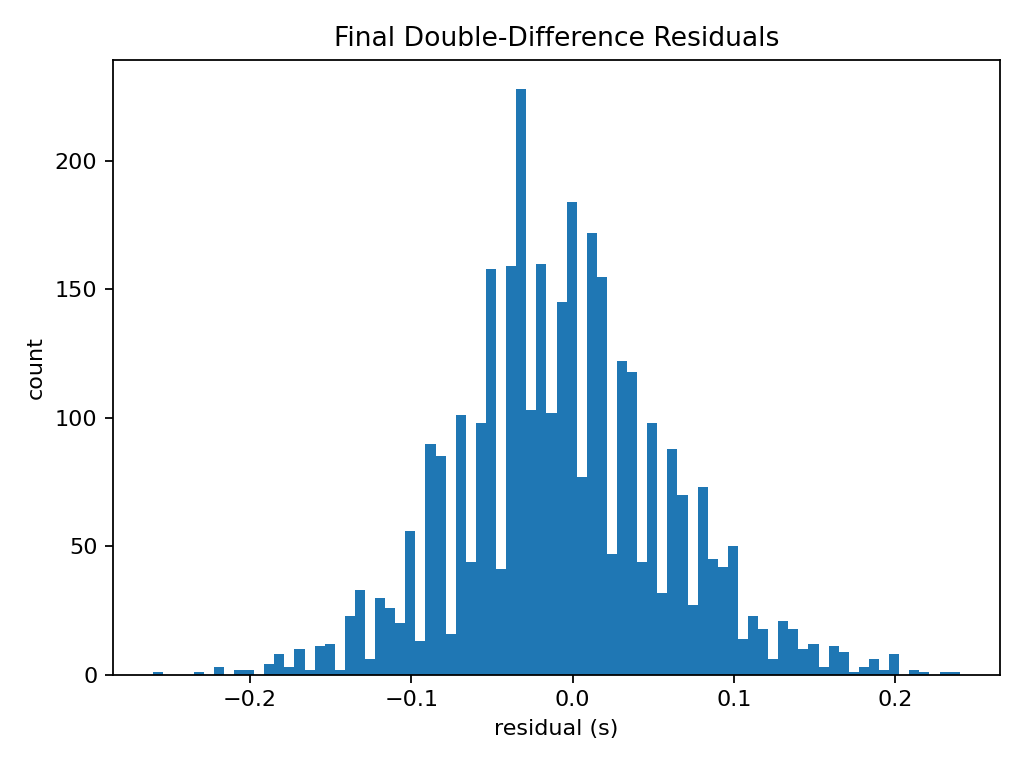
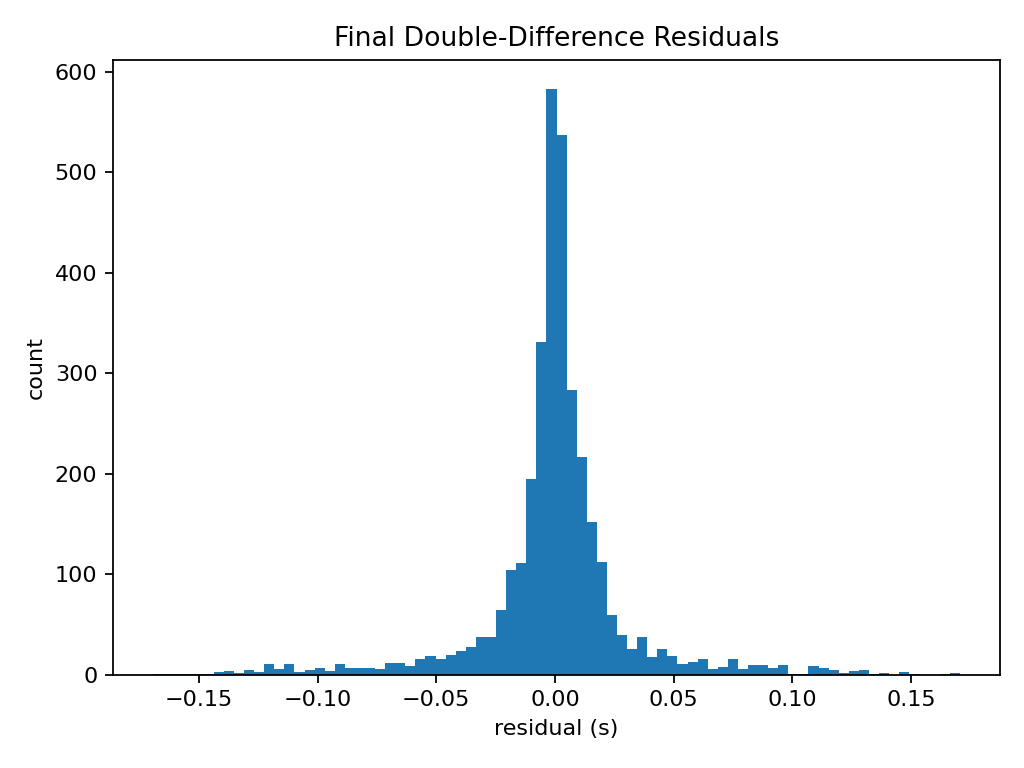
get time residuals fix

diff --git a/hypodd_quality_report.py b/hypodd_quality_report.py
@@ -82,12 +82,111 @@ def _summary(values):
     }
 
 
+def _residual_summary(prefix, residuals):
+    values = [row["residual_s"] for row in residuals]
+    abs_values = [abs(value) for value in values]
+    if not values:
+        return {
+            "%s_count" % prefix: 0,
+            "%s_mean_abs_s" % prefix: math.nan,
+            "%s_median_abs_s" % prefix: math.nan,
+            "%s_rms_s" % prefix: math.nan,
+            "%s_mean_s" % prefix: math.nan,
+            "%s_p05_abs_s" % prefix: math.nan,
+            "%s_p95_abs_s" % prefix: math.nan,
+        }
+    sorted_abs = sorted(abs_values)
+    return {
+        "%s_count" % prefix: len(values),
+        "%s_mean_abs_s" % prefix: sum(abs_values) / len(abs_values),
+        "%s_median_abs_s" % prefix: _percentile(sorted_abs, 50),
+        "%s_rms_s" % prefix: math.sqrt(
+            sum(value * value for value in values) / len(values)
+        ),
+        "%s_mean_s" % prefix: sum(values) / len(values),
+        "%s_p05_abs_s" % prefix: _percentile(sorted_abs, 5),
+        "%s_p95_abs_s" % prefix: _percentile(sorted_abs, 95),
+    }
+
+
+def event_pick_residual_summary_rows(pick_rows):
+    grouped = defaultdict(lambda: defaultdict(list))
+    for row in pick_rows:
+        grouped[row["event_id"]][row["dataset"]].append(row)
+
+    rows = []
+    for event_id in sorted(grouped):
+        row = {"event_id": event_id}
+        for dataset in ["original", "relocated"]:
+            dataset_rows = grouped[event_id].get(dataset, [])
+            row.update(_residual_summary("%s_pick" % dataset, dataset_rows))
+            row["%s_pick_p_count" % dataset] = sum(
+                1 for item in dataset_rows if item.get("phase") == "P"
+            )
+            row["%s_pick_s_count" % dataset] = sum(
+                1 for item in dataset_rows if item.get("phase") == "S"
+            )
+        rows.append(row)
+    return rows
+
+
+def event_double_difference_summary_rows(dd_rows):
+    grouped = defaultdict(lambda: defaultdict(list))
+    for row in dd_rows:
+        for key in ["event_id_1", "event_id_2"]:
+            grouped[row[key]][row["dataset"]].append(row)
+
+    rows = []
+    for event_id in sorted(grouped):
+        row = {"event_id": event_id}
+        for dataset in ["original", "relocated"]:
+            dataset_rows = grouped[event_id].get(dataset, [])
+            row.update(_residual_summary("%s_dd" % dataset, dataset_rows))
+            linked_events = set()
+            for item in dataset_rows:
+                linked_events.add(item["event_id_1"])
+                linked_events.add(item["event_id_2"])
+            linked_events.discard(event_id)
+            row["%s_dd_linked_event_count" % dataset] = len(linked_events)
+            row["%s_dd_station_count" % dataset] = len(
+                {item["station_id"] for item in dataset_rows}
+            )
+            row["%s_dd_p_count" % dataset] = sum(
+                1 for item in dataset_rows if item.get("phase") == "P"
+            )
+            row["%s_dd_s_count" % dataset] = sum(
+                1 for item in dataset_rows if item.get("phase") == "S"
+            )
+        rows.append(row)
+    return rows
+
+
+def combined_event_residual_summary_rows(pick_event_rows, dd_event_rows):
+    by_event = {}
+    for row in pick_event_rows:
+        by_event.setdefault(row["event_id"], {"event_id": row["event_id"]}).update(row)
+    for row in dd_event_rows:
+        by_event.setdefault(row["event_id"], {"event_id": row["event_id"]}).update(row)
+
+    for row in by_event.values():
+        original_pick = row.get("original_pick_mean_abs_s", math.nan)
+        relocated_pick = row.get("relocated_pick_mean_abs_s", math.nan)
+        original_dd = row.get("original_dd_mean_abs_s", math.nan)
+        relocated_dd = row.get("relocated_dd_mean_abs_s", math.nan)
+        row["pick_mean_abs_change_s"] = relocated_pick - original_pick
+        row["dd_mean_abs_change_s"] = relocated_dd - original_dd
+
+    return [by_event[event_id] for event_id in sorted(by_event)]
+
+
 def _write_rows(path, rows, fieldnames=None):
     path = Path(path)
     path.parent.mkdir(parents=True, exist_ok=True)
     rows = list(rows)
     if fieldnames is None:
         fieldnames = sorted({key for row in rows for key in row})
+    if not fieldnames:
+        fieldnames = ["no_rows"]
     with open(path, "w", newline="", encoding="utf-8") as open_file:
         writer = csv.DictWriter(open_file, fieldnames=fieldnames)
         writer.writeheader()
@@ -712,6 +811,18 @@ def make_plots(output_dir, summaries, residual_rows, convergence_rows):
             "Absolute Catalog Double-Difference Residuals From Travel-Time Model",
             "model_dd_abs_residual_original_vs_relocated_s.png",
         ),
+        (
+            "event_pick_mean_abs_original_s",
+            "event_pick_mean_abs_relocated_s",
+            "Event-Wise Mean Absolute Pick Residuals",
+            "event_pick_mean_abs_original_vs_relocated_s.png",
+        ),
+        (
+            "event_dd_mean_abs_original_s",
+            "event_dd_mean_abs_relocated_s",
+            "Event-Wise Mean Absolute Double-Difference Residuals",
+            "event_dd_mean_abs_original_vs_relocated_s.png",
+        ),
     ]:
         original_values = raw.get(original_key, [])
         relocated_values = raw.get(relocated_key, [])
@@ -764,6 +875,16 @@ def make_plots(output_dir, summaries, residual_rows, convergence_rows):
             "model_dd_abs_residual_original_s",
             "model_dd_abs_residual_relocated_s",
             "Catalog double-difference residual",
+        ),
+        (
+            "event_pick_mean_abs_original_s",
+            "event_pick_mean_abs_relocated_s",
+            "Event-wise pick residual",
+        ),
+        (
+            "event_dd_mean_abs_original_s",
+            "event_dd_mean_abs_relocated_s",
+            "Event-wise DD residual",
         ),
     ]
     labels = []
@@ -1130,6 +1251,12 @@ def create_quality_report(
             "relocated",
         )
     model_dd_rows = model_dd_original + model_dd_relocated
+    event_pick_rows = event_pick_residual_summary_rows(pick_rows)
+    event_dd_rows = event_double_difference_summary_rows(model_dd_rows)
+    event_residual_rows = combined_event_residual_summary_rows(
+        event_pick_rows,
+        event_dd_rows,
+    )
 
     raw = {
         "interevent_original_km": inter_event_distances(original),
@@ -1150,6 +1277,26 @@ def create_quality_report(
         ],
         "model_dd_abs_residual_relocated_s": [
             row["absolute_residual_s"] for row in model_dd_relocated
+        ],
+        "event_pick_mean_abs_original_s": [
+            row["original_pick_mean_abs_s"]
+            for row in event_pick_rows
+            if math.isfinite(row["original_pick_mean_abs_s"])
+        ],
+        "event_pick_mean_abs_relocated_s": [
+            row["relocated_pick_mean_abs_s"]
+            for row in event_pick_rows
+            if math.isfinite(row["relocated_pick_mean_abs_s"])
+        ],
+        "event_dd_mean_abs_original_s": [
+            row["original_dd_mean_abs_s"]
+            for row in event_dd_rows
+            if math.isfinite(row["original_dd_mean_abs_s"])
+        ],
+        "event_dd_mean_abs_relocated_s": [
+            row["relocated_dd_mean_abs_s"]
+            for row in event_dd_rows
+            if math.isfinite(row["relocated_dd_mean_abs_s"])
         ],
     }
 
@@ -1194,6 +1341,12 @@ def create_quality_report(
     _write_rows(
         output_dir / "model_double_difference_residuals.csv", model_dd_rows
     )
+    _write_rows(output_dir / "event_pick_residual_summary.csv", event_pick_rows)
+    _write_rows(
+        output_dir / "event_double_difference_residual_summary.csv",
+        event_dd_rows,
+    )
+    _write_rows(output_dir / "event_residual_summary.csv", event_residual_rows)
     _write_rows(output_dir / "station_residuals.csv", station_rows)
     _write_rows(output_dir / "cluster_sizes.csv", cluster_rows)
     _write_rows(output_dir / "iteration_convergence.csv", convergence_rows)

diff --git a/hypoddpy/hypodd_compiler.py b/hypoddpy/hypodd_compiler.py
@@ -35,7 +35,7 @@ HYPODD_MD5_HASHES = [
     "ac7fb5829abef23aa91f1f8a115e2b45",
     "94228305b2370c4f3371fc6cb76f92c5",
 ]
-HYPODD_DIAGNOSTIC_PATCH_VERSION = "ddres-diagnostics-v2"
+HYPODD_DIAGNOSTIC_PATCH_VERSION = "ddres-diagnostics-v3"
 
 
 class HypoDDCompilationError(Exception):
@@ -271,10 +271,12 @@ class HypoDDCompiler(object):
 
       integer i
       integer iunit
+      logical lexist
 
       call freeunit(iunit)
-      open(iunit,file=fn,status='unknown')
-      write(iunit,'(a)')
+      inquire(file=fn,exist=lexist)
+      open(iunit,file=fn,status='unknown',position='append')
+      if(.not.lexist) write(iunit,'(a)')
      &'# STA OBS_S CALC_S RES_S C1 C2 IDX QUAL WT OFFS'
       write(iunit,'(a7,1x,f12.7,1x,f12.7,1x,f12.7,1x,
      & i9,1x,i9,1x,i1,1x,f9.4,1x,f11.6,1x,f8.1)')
@@ -302,10 +304,12 @@ class HypoDDCompiler(object):
       integer i
       integer j
       integer iunit
+      logical lexist
 
       call freeunit(iunit)
-      open(iunit,file=fn,status='unknown')
-      write(iunit,'(a)')'# CUSP STA TTP_S TTS_S'
+      inquire(file=fn,exist=lexist)
+      open(iunit,file=fn,status='unknown',position='append')
+      if(.not.lexist) write(iunit,'(a)')'# CUSP STA TTP_S TTS_S'
       do j=1,nsrc
          write(iunit,'(i9,1x,a7,1x,f12.7,1x,f12.7)')
      &   (src_cusp(j),sta_lab(i),tmp_ttp(i,j),tmp_tts(i,j),i=1,nsta)
